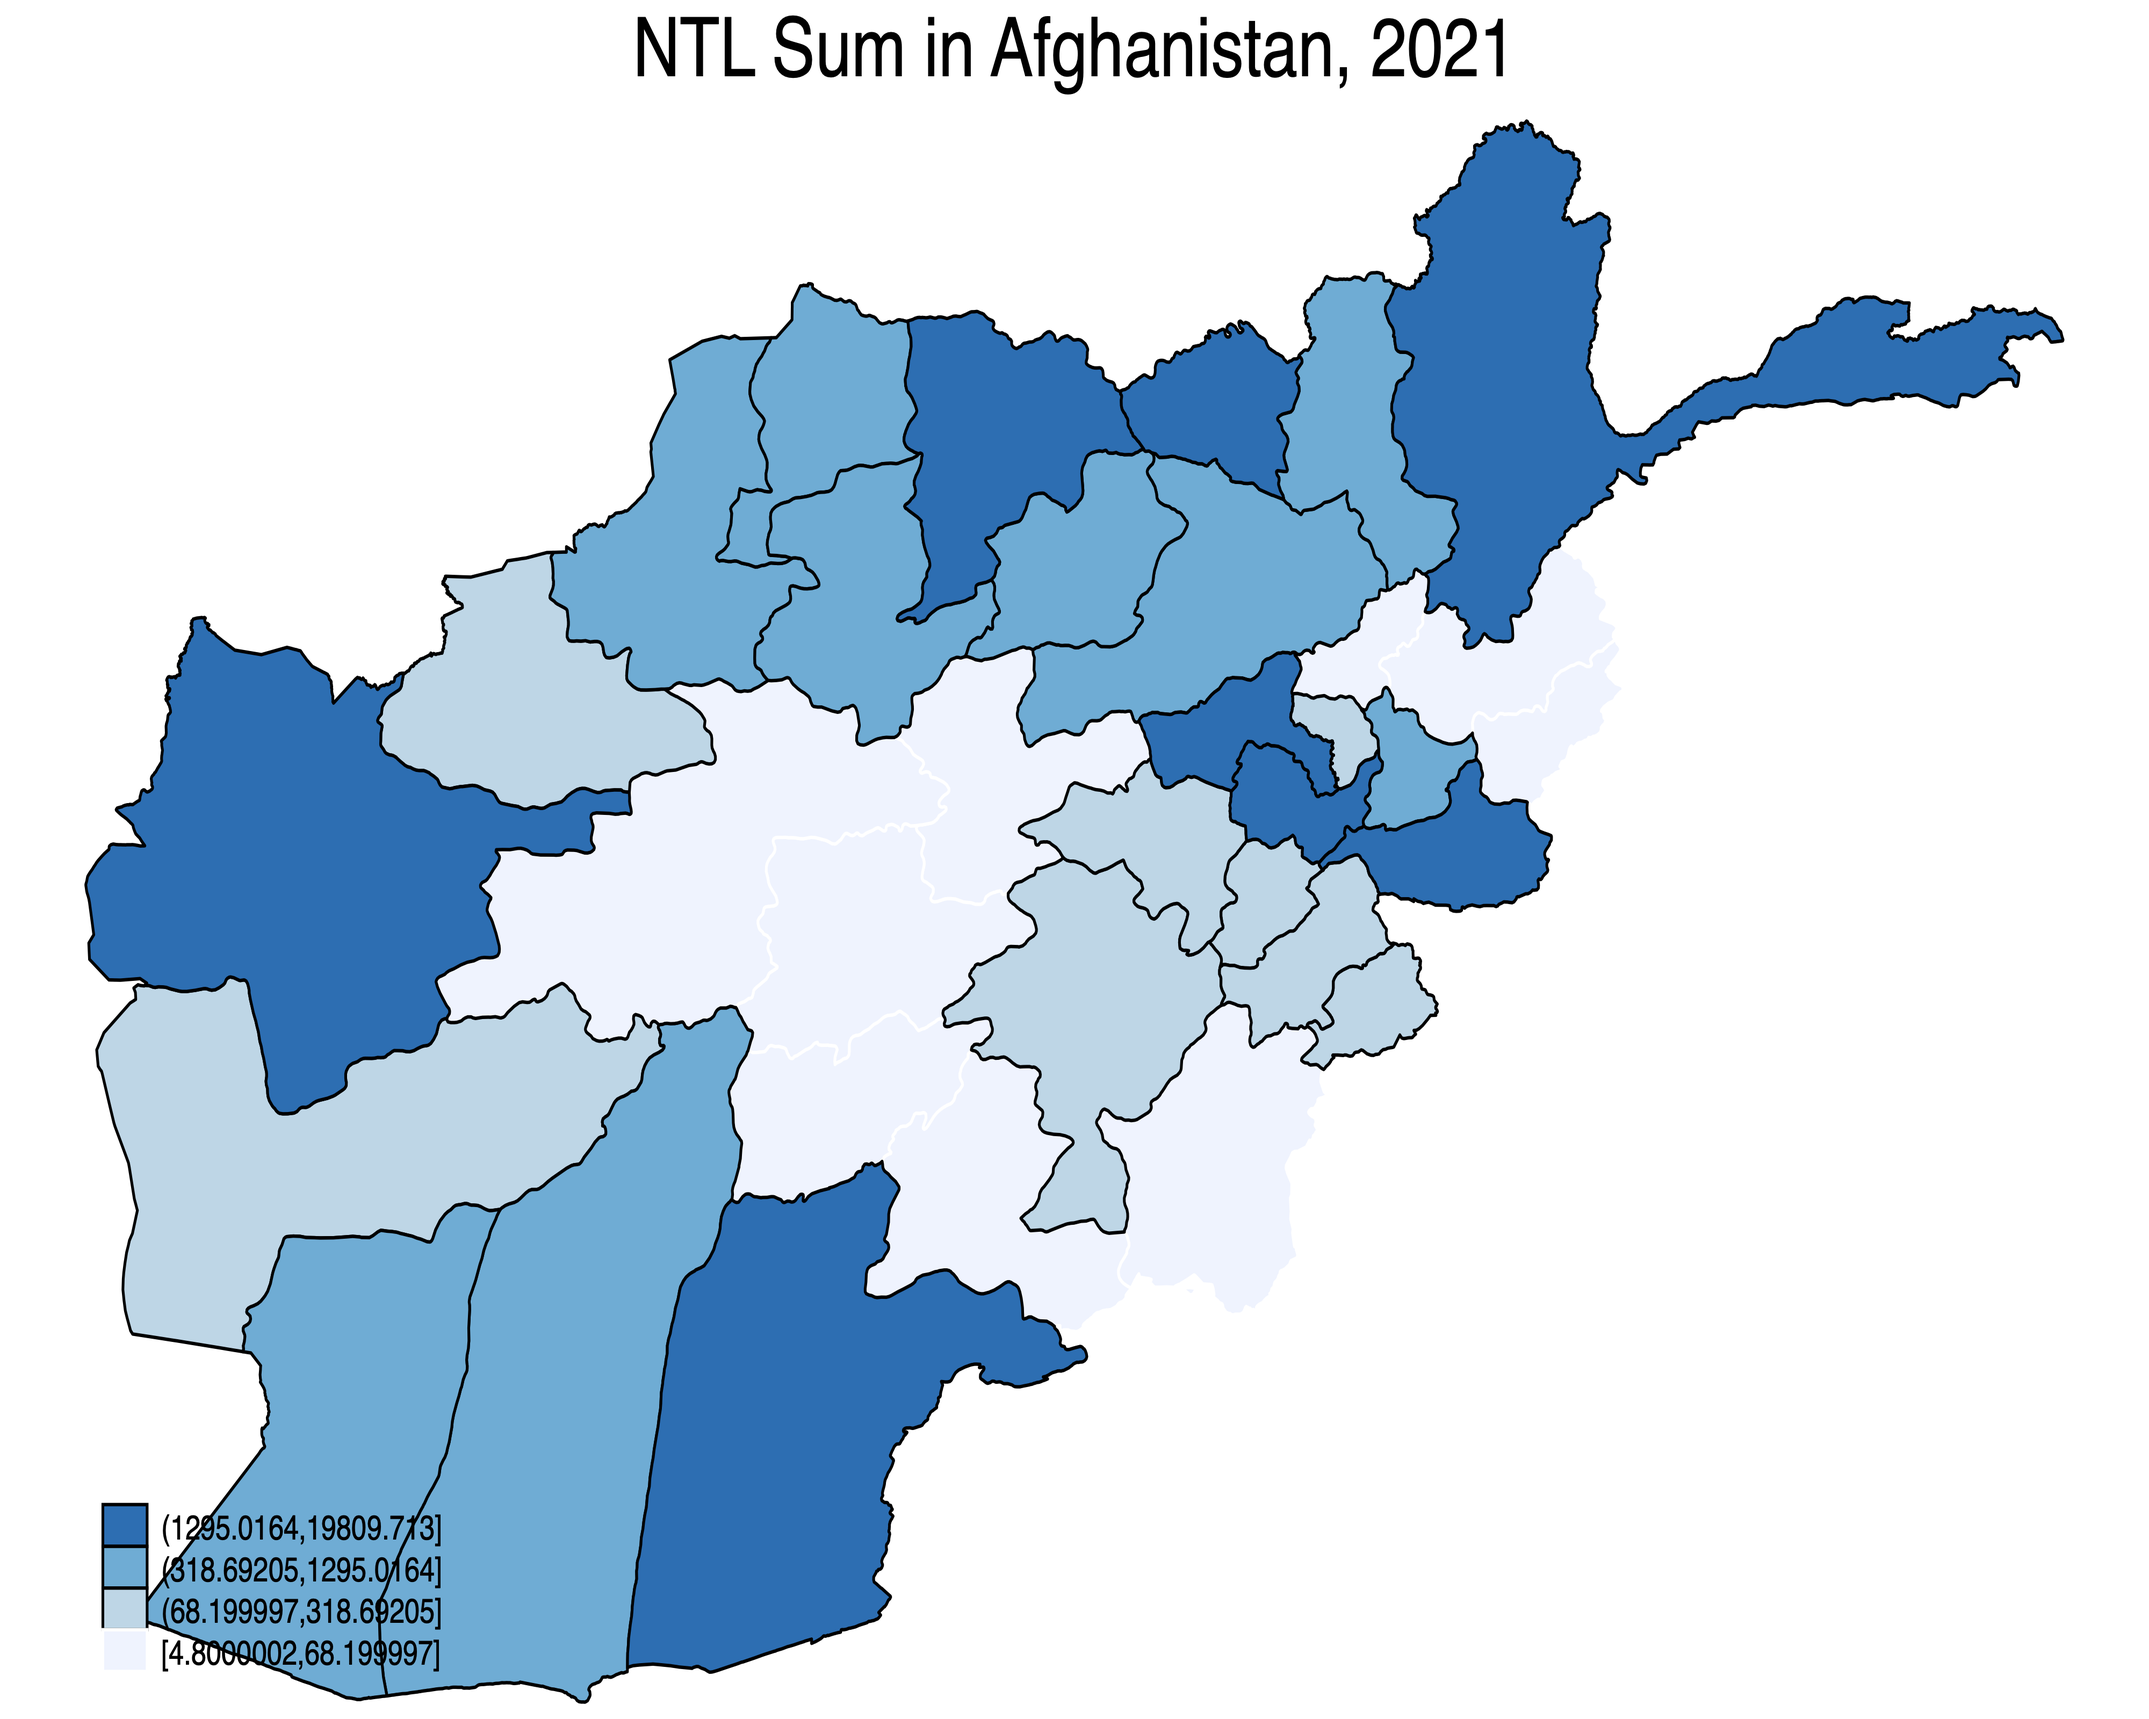
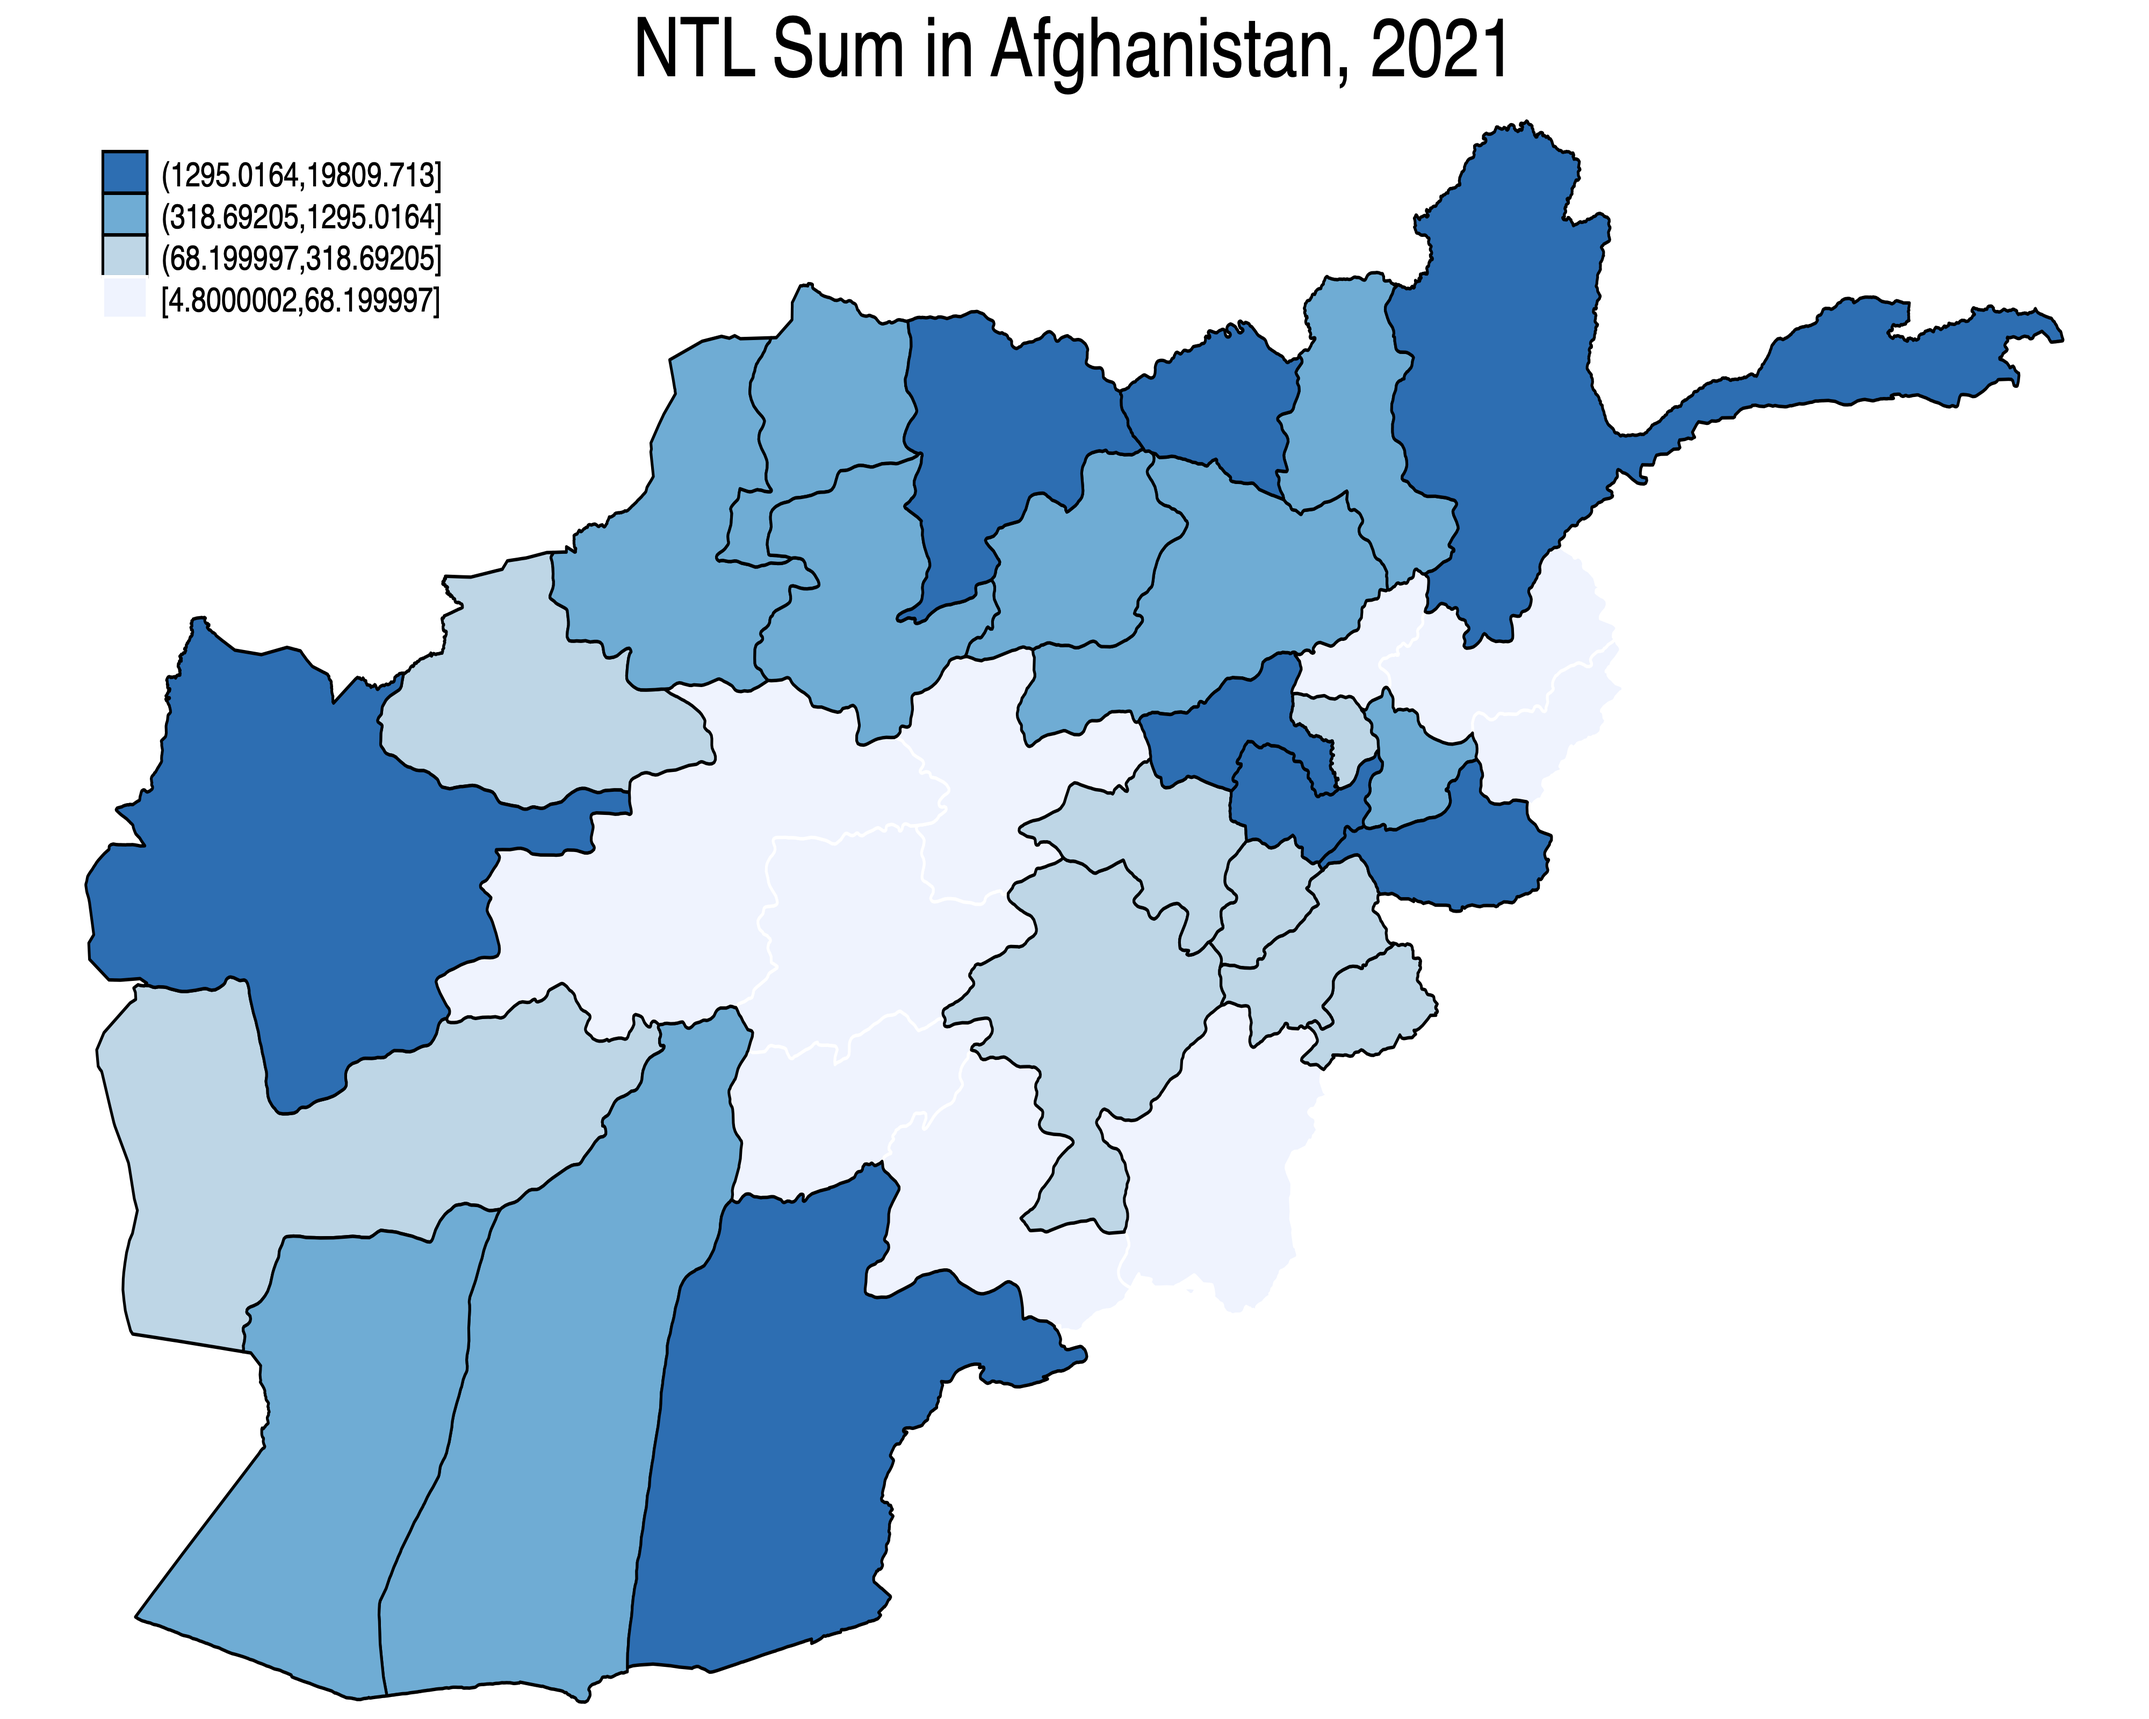
readme

Changed region(s): [[0.0312, 0.875, 0.2188, 0.9688], [0.0312, 0.0625, 0.2188, 0.1875]]

diff --git a/README.md b/README.md
@@ -21,10 +21,6 @@ net install blackmarble, from("https://raw.githubusercontent.com/worldbank/black
 
 ## Usage: Query aggregated dataset of nighttime lights <a name="usage_query_bm"></a>
 
-The `query_bm` function allows creating a dataset of Black Marble nighttime lights for different administrative units over time. The [input](#input_query_bm) section describes different inputs to the function, and the [output](#output_query_bm) describes the nighttime light variables in the produced dataset; variables included aggregated nighttime lights, and diagnostic variables to determine the quality of nighttime lights.
-
-#### Input: Using `query_bm` <a name="input_query_bm"></a>
-
 The `query_bm` function allows querying aggregated nighttime lights using different administrative datasets and different administrative levels. The function has the following parameters:
 
 _Parameters:_
@@ -80,16 +76,10 @@ The following are quality classifications:
     * `1`: High-quality, Ephemeral nighttime Lights
     * `2`: Poor-quality, Outlier, potential cloud contamination, or other issues
 
-  * For __monthly and annual__ data:
-    * `0`: Good-quality, The number of observations used for the composite is larger than 3
-    * `1`: Poor-quality, The number of observations used for the composite is less than or equal to 3
-    * `2`: Gap filled NTL based on historical data
-
-#### Output <a name=output_query_bm"></a> 
-
-DATASET
-
-INDIVIDUAL FILES (if want to update the dataset later on)
+* For __monthly and annual__ data:
+  * `0`: Good-quality, The number of observations used for the composite is larger than 3
+  * `1`: Poor-quality, The number of observations used for the composite is less than or equal to 3
+  * `2`: Gap filled NTL based on historical data
 
 ## Usage: Query spatial files <a name="usage_query_spatial"></a>
 
@@ -150,7 +140,10 @@ drop _merge
 * Make map ---------------------------------------------------------------------
 
 * Generate the map
-spmap ntl_sum using afg_coord, id(id) fcolor(Blues) ocolor(white) clmethod(quantile) title("NTL Sum in Afghanistan, 2021")
+spmap ntl_sum using afg_coord, id(id) fcolor(Blues) ocolor(white) \\\
+                               clmethod(quantile) \\\
+                               title("NTL Sum in Afghanistan, 2021") \\\
+                               legend(position(11))
     
 * Save the map as a PNG file
 graph export "~/Desktop/afg_ntl_map.png", replace width(2000) height(1600)
